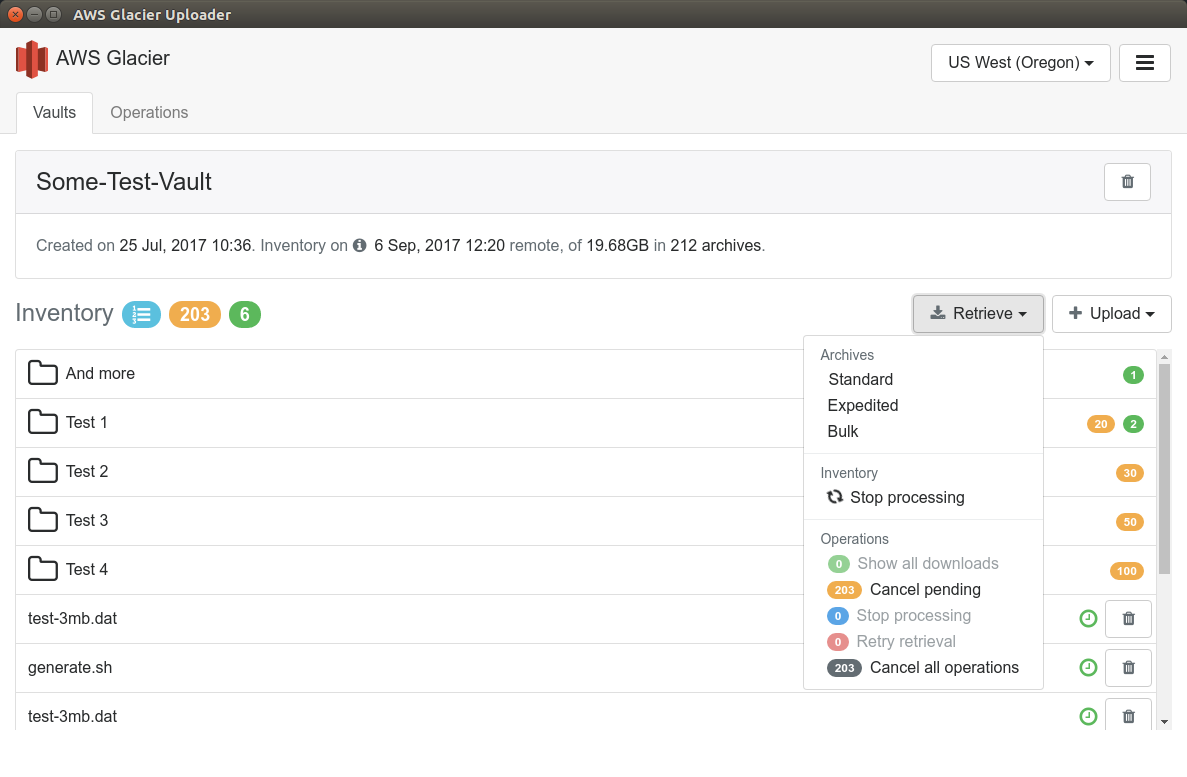
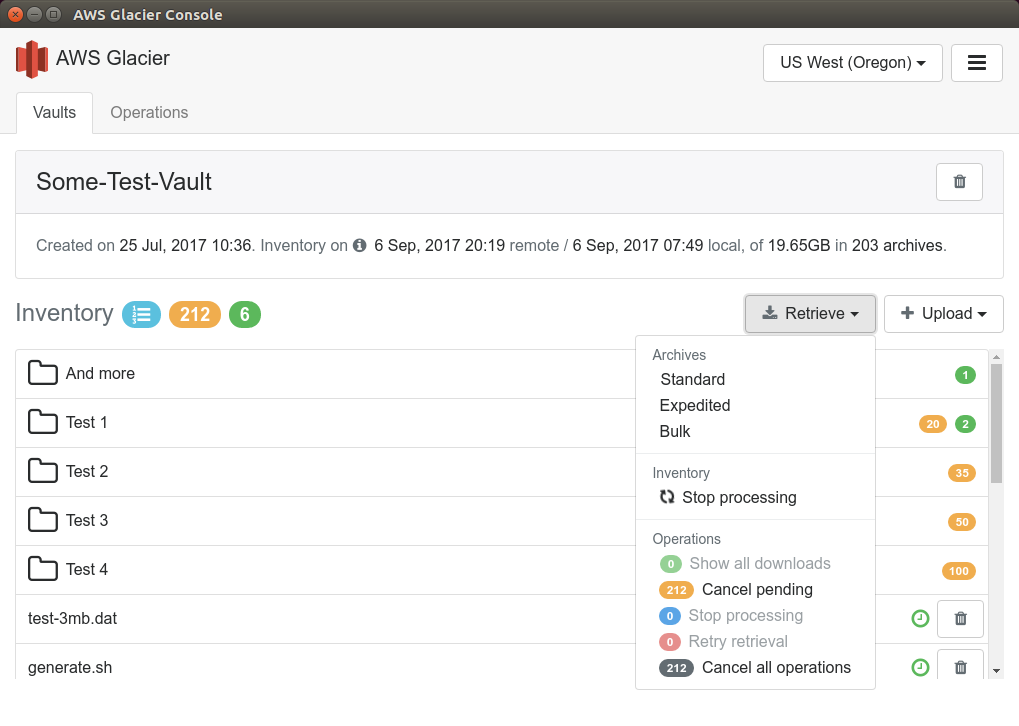
Readme file

diff --git a/source/renderer/index.html b/source/renderer/index.html
@@ -2,7 +2,7 @@
 <html>
   <head>
     <meta charset="UTF-8">
-    <title>AWS Glacier Uploader</title>
+    <title>AWS Glacier Console</title>
   </head>
   <body>
     <div id="root">

diff --git a/README.md b/README.md
@@ -15,31 +15,42 @@ AWS Glacier Console is a fast cross-platform Client for Amazon Glacier.
 
 ## Latest Releases
 
-  [OS X (x64)](../master/bin/glacier-darwin-x64.zip)  
-  [Windows (x64)](../master/bin/glacier-win32-x64.zip)  
-  [Linux (x64)](../master/bin/glacier-linux-x64.zip)  
+  [OS X (x64)](../master/bin/glacier-darwin-x64.zip?raw=true)  
+  [Windows (x64)](../master/bin/glacier-win32-x64.zip?raw=true)  
+  [Linux (x64)](../master/bin/glacier-linux-x64.zip?raw=true)  
 
 ## Installing
+  ```
   $ git clone git://github.com/o-evin/glacier.git
   $ cd ./glacier
   $ npm install
+  ```
 
 ## Run from the source code
   Install the project first and then run:
+  ```
   $ npm start
+  ```
 
 ## Building
+  ```
   $ npm run build
+  ```
 
 ## Packaging
+  ```
   $ npm run pack
+  ```
   After successful project Compilation and Packaging you should be able to find the apps under /bin folder.
+
 ### Packaging Windows app from non-Windows platforms
   On non-Windows host platforms, Wine 1.6 or later needs to be installed. On OS X, it is installable via [Homebrew](http://brew.sh/).
 
 ## Debugging
 You can enable debugging output by setting the `DEBUG` environment variable:
+  ```
   $ DEBUG=uploader,receiver npm start
+  ```
 
 
 ## Authors
